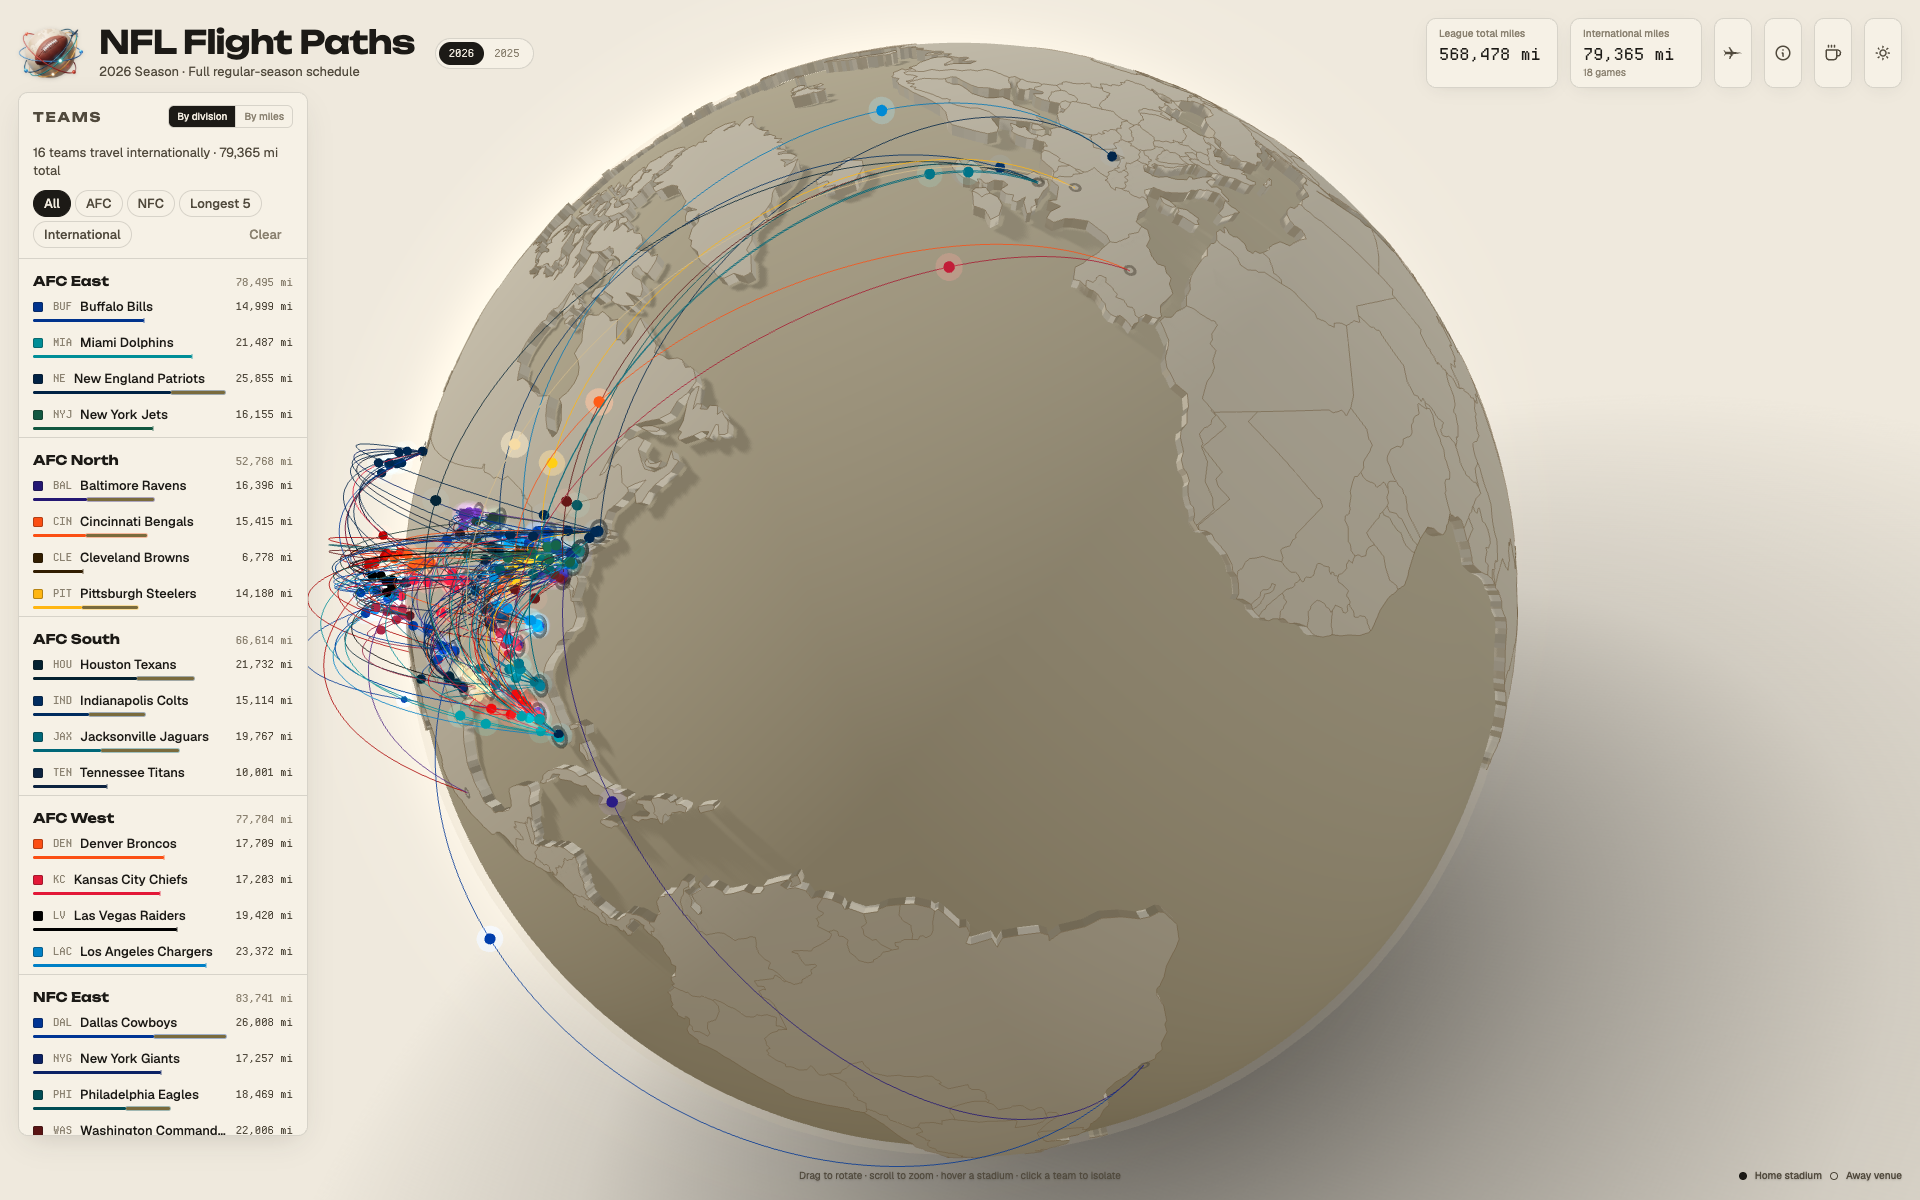
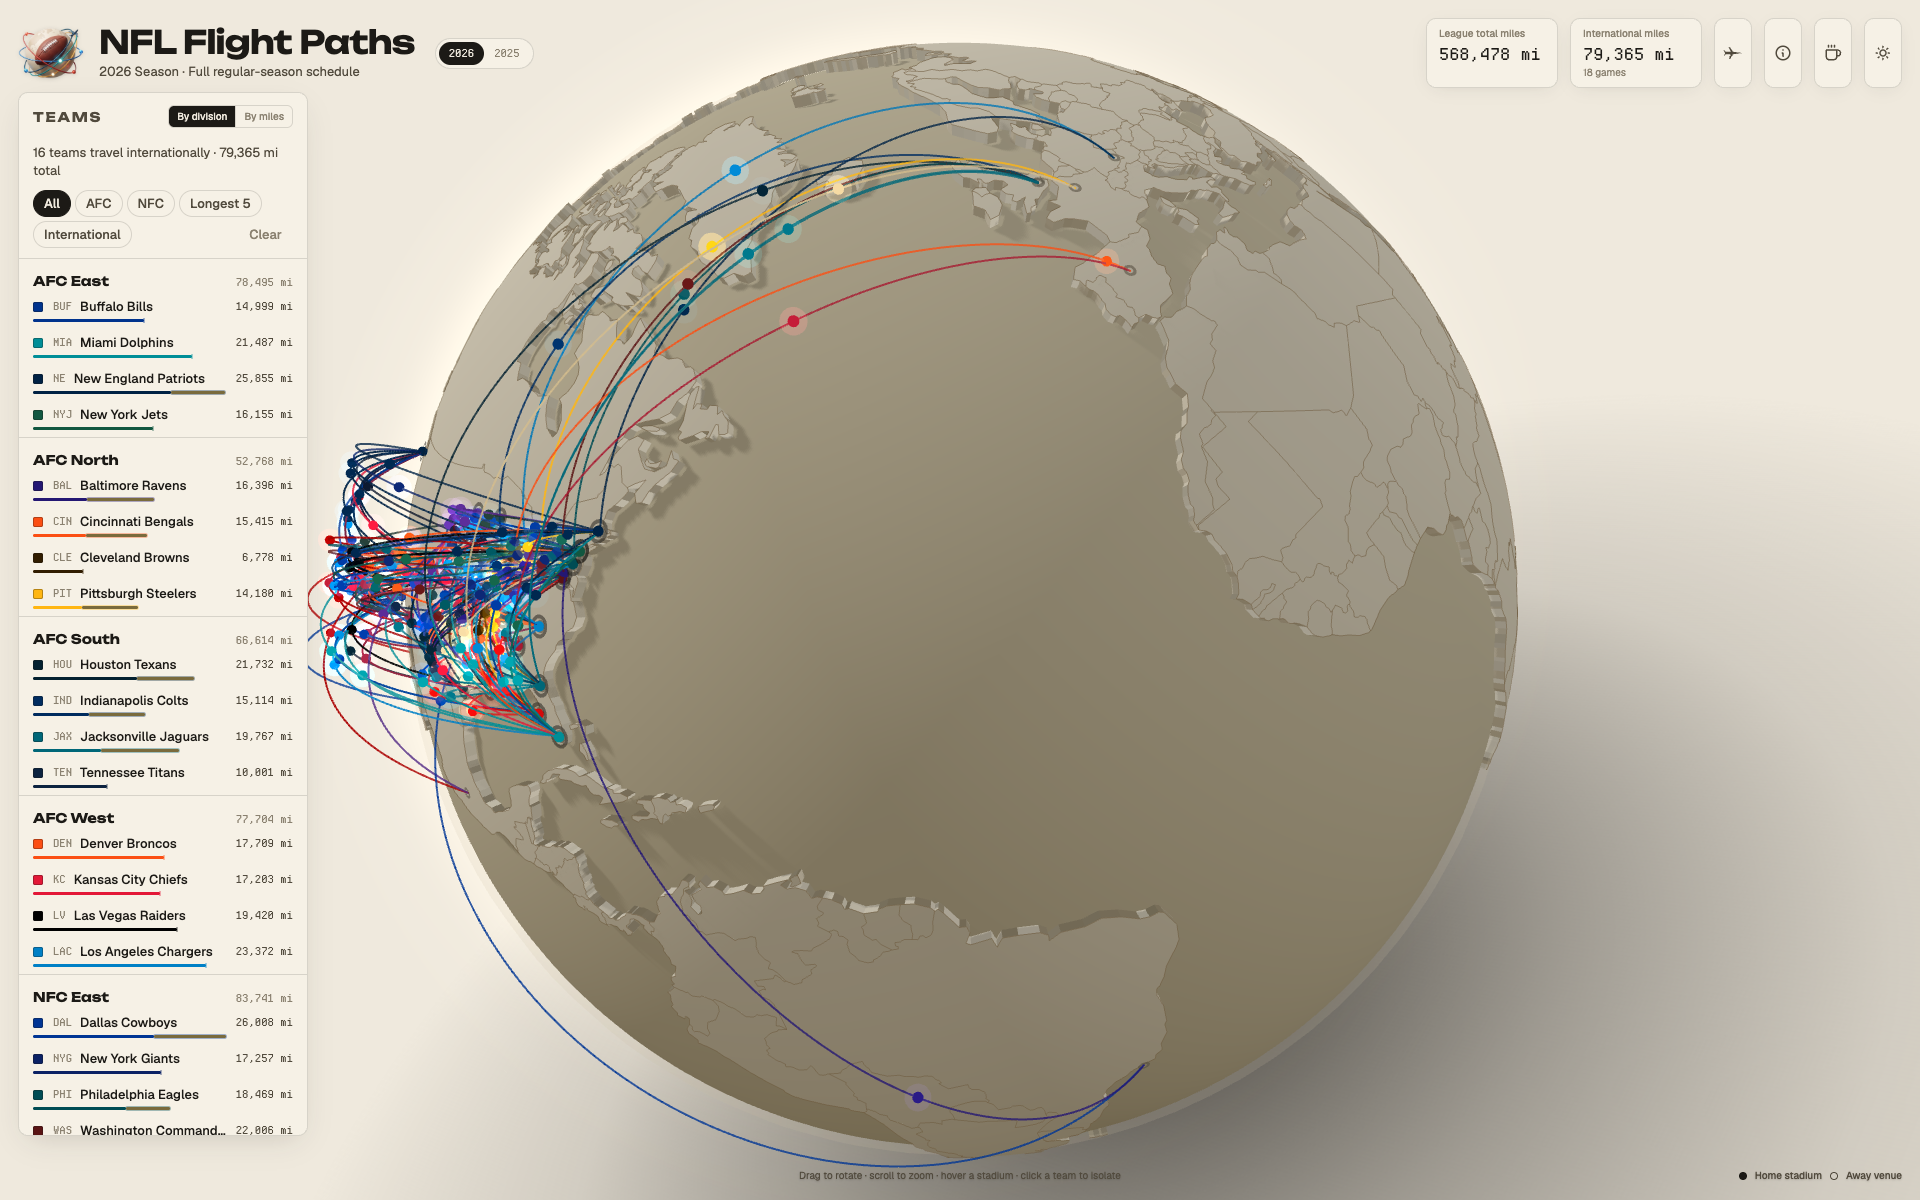
Use Line2/LineMaterial for fat-line arcs
gl.LINES rasterizes at 1px on every desktop driver, so the dense
Northeast corridor on the all-on view braided into illegibility — the
last visible quality issue the previous /impeccable critique flagged.
The fade-non-selected work that already shipped helped the filtered
case; the default first-paint view still needed help.

Swap LineBasicMaterial + THREE.Line for Line2 + LineMaterial from the
three/examples/jsm/lines/ addon, anchored at 2px. The screen-space
shader's anti-aliasing reads as a cleaner stroke than the gl.LINES
raster at half the visual mass — the corridor still has many arcs but
each one is a distinct line instead of a fuzzy braid.

LineMaterial computes pixel width from a `resolution` uniform that has
to track the viewport, so the existing resize listener now propagates
window.innerWidth/innerHeight to every arc material. New arcs from a
season switch pick up the current resolution at construction time.

`alphaToCoverage` is intentionally off: it dithers low-opacity
fragments into a stipple pattern that turns the previous fade-non-
selected behavior into dashed lines.

All 5 README hero shots re-captured at 1920×1200 — light and dark, all
three rotations.

diff --git a/src/paths.js b/src/paths.js
@@ -1,8 +1,16 @@
 import * as THREE from "three";
+import { Line2 } from "three/examples/jsm/lines/Line2.js";
+import { LineGeometry } from "three/examples/jsm/lines/LineGeometry.js";
+import { LineMaterial } from "three/examples/jsm/lines/LineMaterial.js";
 import { TEAMS, INTERNATIONAL_VENUES } from "./data/teams.js";
 import { GLOBE_RADIUS, RELIEF_LIFT, greatCircleArc, latLonToVec3 } from "./geo.js";
 
 const SEGMENTS = 96;
+// Pixels. gl.LINES is locked to 1px on every desktop driver, which lets the
+// Northeast corridor braid into illegibility on the all-on view. 2px through
+// Line2's screen-space shader reads as a cleaner stroke than gl.LINES at 1px
+// because of the shader's built-in anti-aliasing.
+const ARC_LINEWIDTH = 2.0;
 const TRAVELER_BASE_RADIUS = 0.0075;
 const TRAVELER_GLOW_RADIUS = 0.018;
 const TRAVELER_SPEED_PER_RADIAN = 0.22; // radians traversed per second
@@ -56,14 +64,29 @@ export function createFlightPaths(legs, theme) {
       leg.toLon,
       SEGMENTS,
     );
-    const geometry = new THREE.BufferGeometry().setFromPoints(points);
+    const positions = new Float32Array(points.length * 3);
+    for (let p = 0; p < points.length; p++) {
+      positions[p * 3] = points[p].x;
+      positions[p * 3 + 1] = points[p].y;
+      positions[p * 3 + 2] = points[p].z;
+    }
+    const geometry = new LineGeometry();
+    geometry.setPositions(positions);
     const teamColor = new THREE.Color(TEAMS[leg.team].accent);
-    const material = new THREE.LineBasicMaterial({
+    const material = new LineMaterial({
       color: teamColor,
+      linewidth: ARC_LINEWIDTH,
       transparent: true,
       opacity: 0.78,
+      // resolution is updated by the resize listener so the pixel-width math
+      // stays right across viewport / DPR changes.
+      resolution: new THREE.Vector2(window.innerWidth, window.innerHeight),
+      worldUnits: false,
+      dashed: false,
+      // No alphaToCoverage: it dithers low-opacity fragments into a stipple
+      // pattern that turns the fade-non-selected state into dashed lines.
     });
-    const line = new THREE.Line(geometry, material);
+    const line = new Line2(geometry, material);
     line.userData = { team: leg.team, leg, baseOpacity: 0.78 };
     arcsGroup.add(line);
 

diff --git a/src/main.js b/src/main.js
@@ -410,6 +410,14 @@ window.addEventListener("resize", () => {
   camera.updateProjectionMatrix();
   renderer.setSize(window.innerWidth, window.innerHeight);
   refreshCanvasRect();
+  // LineMaterial computes screen-space pixel width from the resolution
+  // uniform, so every arc needs a fresh viewport on resize or the lines
+  // render at the wrong thickness.
+  if (currentFlightPaths) {
+    for (const { line } of currentFlightPaths.arcRecords) {
+      line.material.resolution.set(window.innerWidth, window.innerHeight);
+    }
+  }
 });
 
 start().catch((err) => {
